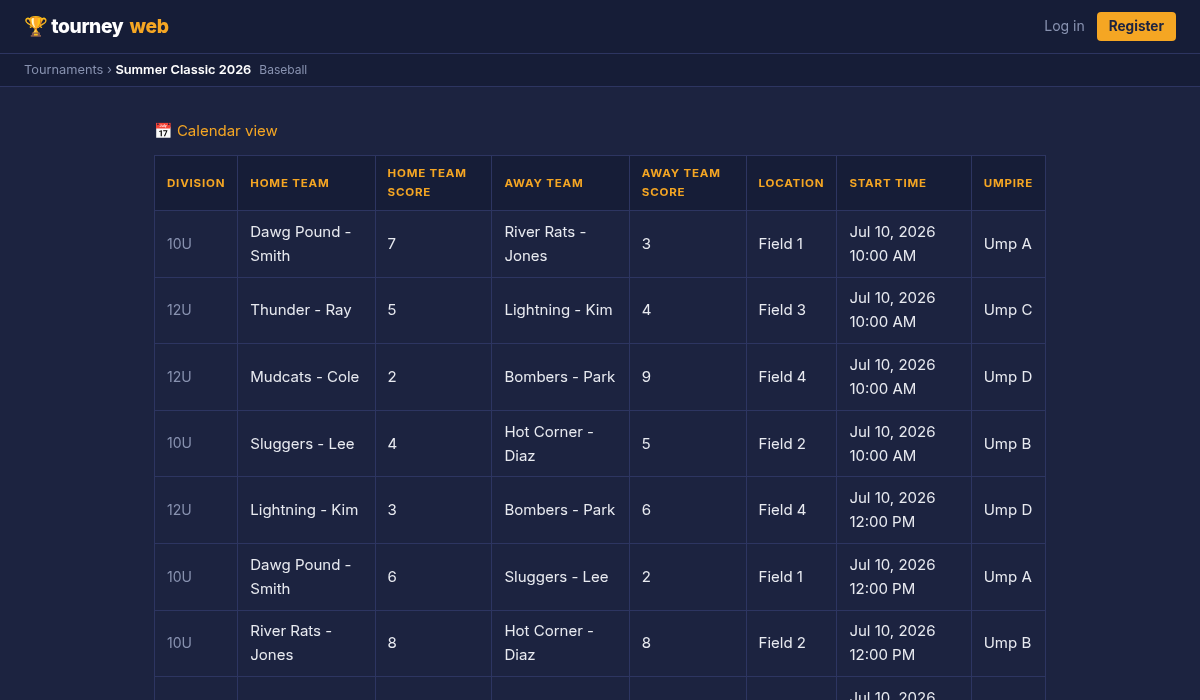
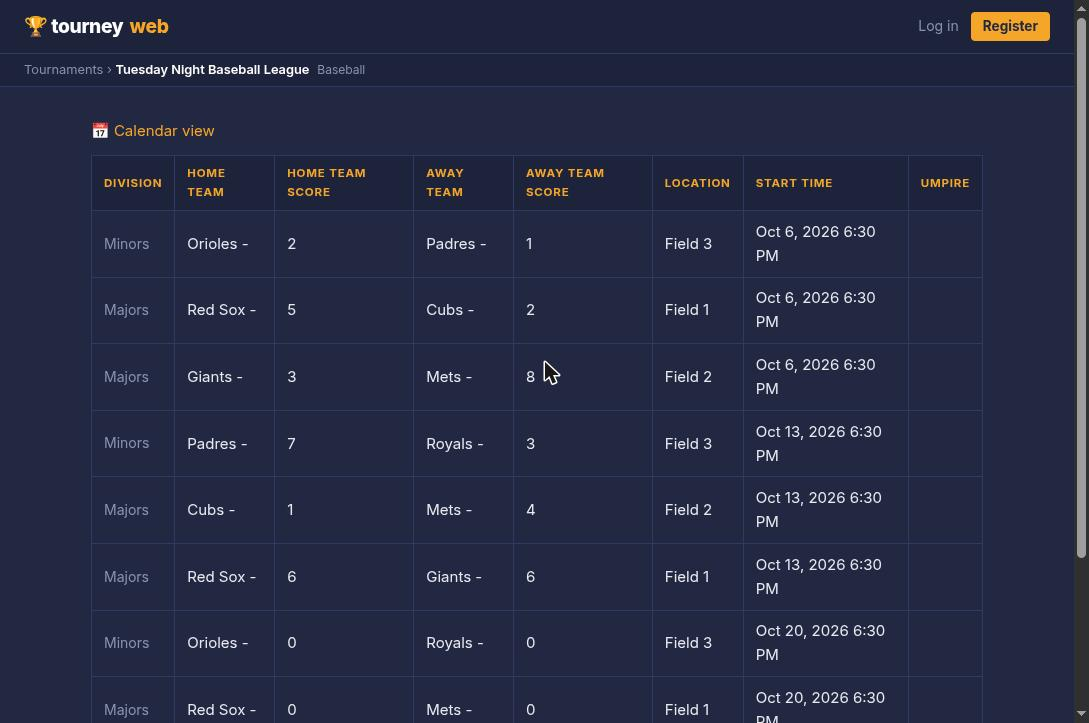
docs: refresh screenshots, add league page
Claude-Session: https://claude.ai/code/session_01Ud613UREW58Ba74VakybZF

diff --git a/README.md b/README.md
@@ -8,9 +8,13 @@ Check out [TODO.md](TODO.md) if you want to help out.
 
 ## Screenshots
 
-**Tournament home**
+**Tournament and league list**
 
 ![Tournament home](docs/screenshots/home.png)
+
+**League page**
+
+![League page](docs/screenshots/league.png)
 
 **Division standings and games**
 
